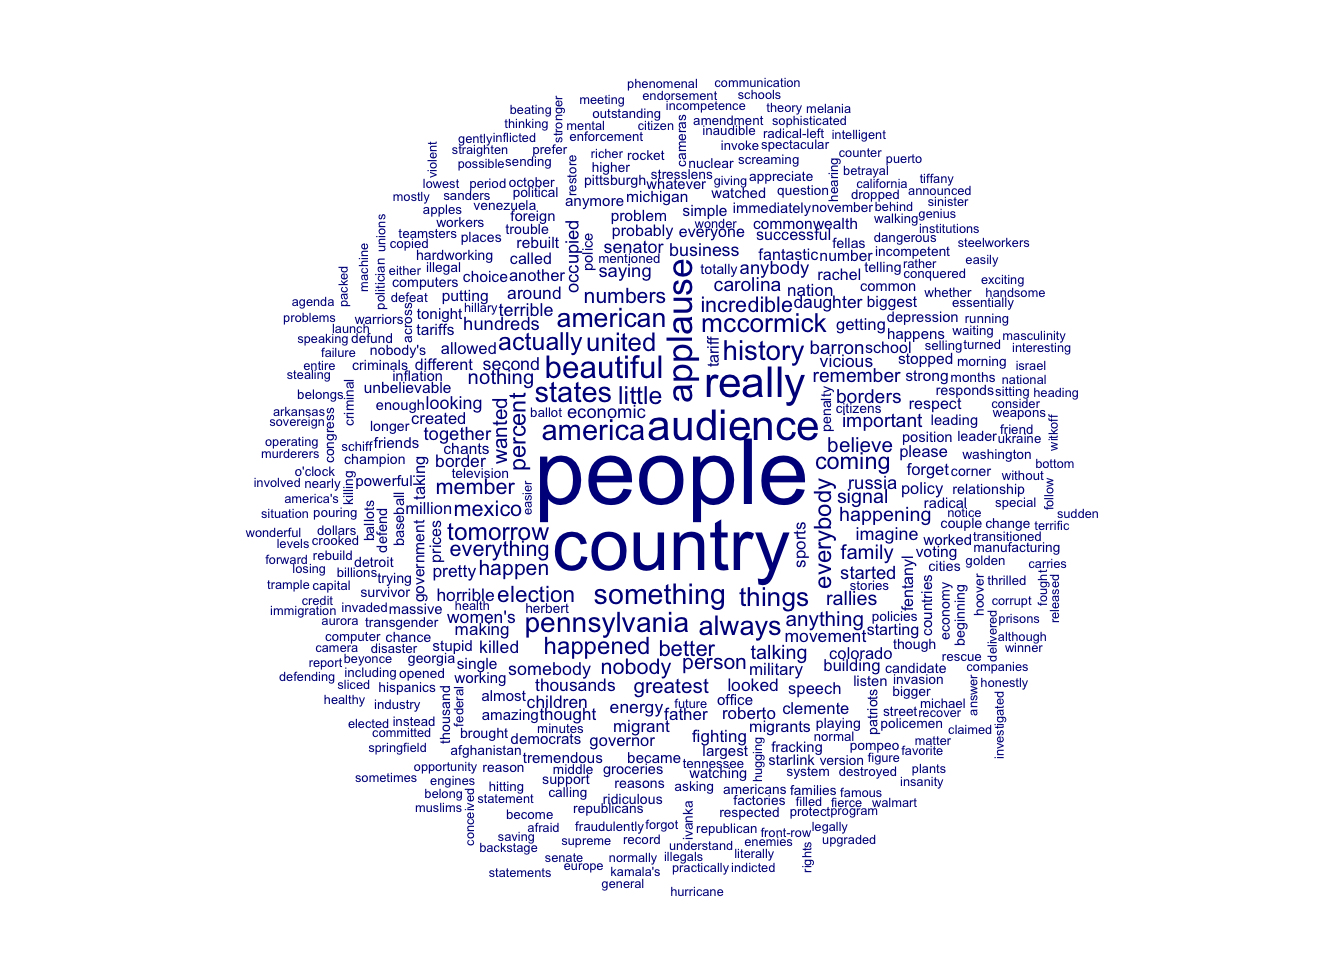
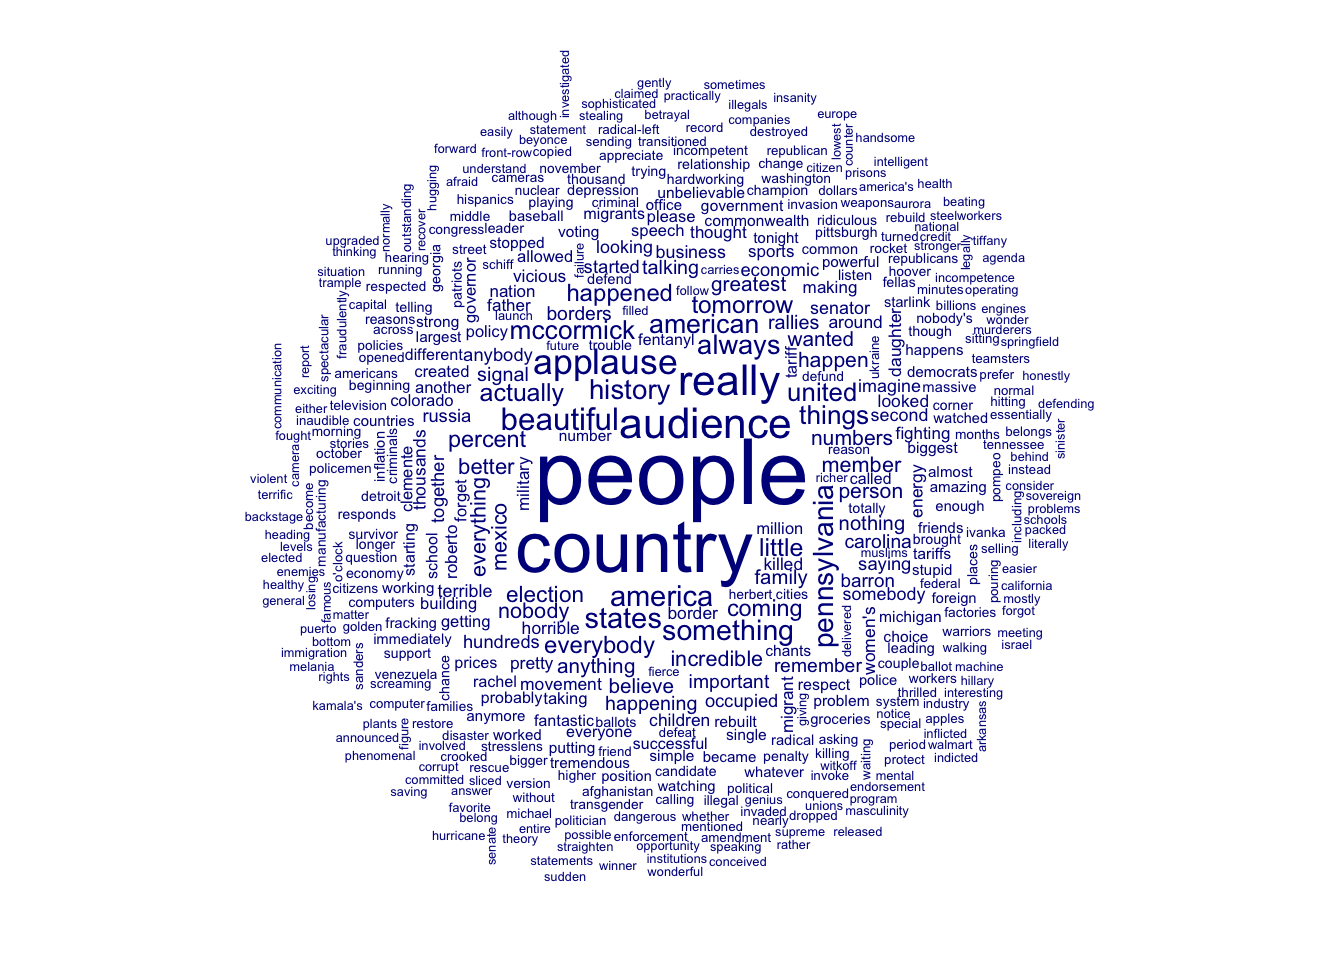
week 11 commit 2

Changed region(s): [[0.1875, 0.0625, 0.8125, 0.9375]]

diff --git a/public/post/2024/11/19/week-11/index.html b/public/post/2024/11/19/week-11/index.html
@@ -37,30 +37,31 @@
 <h1 id="election-blog">Election Blog</h1>
 <h2 id="week-11-a-glimpse-into-pennsylvania">Week 11: A Glimpse into Pennsylvania</h2>
 <h3 id="general-overview">General Overview</h3>
-<p><a href="https://data.census.gov/profile/Pennsylvania?g=040XX00US42">Pennsylvania</a>, home to 13 million people, and with a moderate size of 44,729.9 square miles, has been a swing state in the recent few presidential elections. For presidential candidates trying to secure the 270 electoral college votes necessary to win, Pennsylvania&rsquo;s 19 electoral votes, the highest of any of the <a href="https://www.usnews.com/news/elections/articles/7-swing-states-that-could-decide-the-2024-presidential-election">seven swing states</a>, have therefore become crucial. Its residents have voted Democratic in all presidential elections since 2000, except for 2016, and now again in 2024, though the <a href="https://www.270towin.com/states/Pennsylvania">margin</a> has been consistently small.</p>
-<p>Below is the demographic distribution of registered voters in Pennsylvania based on the voterfile.</p>
+<p><a href="https://data.census.gov/profile/Pennsylvania?g=040XX00US42">Pennsylvania</a>, home to 13 million people and spanning 44,729.9 square miles, has been a swing state in the recent few presidential elections. For presidential candidates trying to secure the 270 electoral college votes necessary to win, Pennsylvania&rsquo;s 19 electoral votes, the highest of any of the <a href="https://www.usnews.com/news/elections/articles/7-swing-states-that-could-decide-the-2024-presidential-election">seven swing states</a>, have therefore become crucial. Since 2000, Pennsylvania voters have leaned Democratic in presidential elections, with the exception of 2016 and now 2024, though the <a href="https://www.270towin.com/states/Pennsylvania">margins</a> remain consistently narrow.</p>
+<p>Below is the demographic distribution of registered voters in Pennsylvania based on the voter file.</p>
 <img src="/post/2024/11/19/week-11/index_files/figure-html/unnamed-chunk-2-1.png" width="672" />
 <h4 id="president">President</h4>
-<p>Trump, representing the Republican Party, <a href="https://apps.npr.org/2024-election-results/pennsylvania.html?section=P">defeated</a> Harris from the Democratic Party with a 50.86% two-party popular vote share in Pennsylvania. It is worth noting that Trump tended to lose densely populated urban counties such as Philadelphia County, Allgheny County which houses Pittsburgh, and Dauphin County which has the state capital Harrisburg.</p>
+<p>In the 2024 presidential race, Trump, representing the Republican Party, <a href="https://apps.npr.org/2024-election-results/pennsylvania.html?section=P">defeated</a> Harris, the Democratic candidate, with 50.86% of the two-party popular vote in Pennsylvania. Trump performed poorly in urban counties like Philadelphia, Allegheny (home to Pittsburgh), and Dauphin (which houses the state capital, Harrisburg), but his strong hold in rural areas helped secure his victory.</p>
 <p>The map below displays the 2024 presidential election results by county in Pennsylvania.</p>
 <img src="/post/2024/11/19/week-11/index_files/figure-html/unnamed-chunk-4-1.png" width="672" />
 <h4 id="senate">Senate</h4>
-<p>The Republican Party represented by incumbent McCormick also won Casey from the Democratic Party in the <a href="https://apps.npr.org/2024-election-results/pennsylvania.html?section=S">senate race</a>, where the Republican&rsquo;s two-party popular vote share stood at 50.10%.</p>
-<p>The urban-rural divide in party vote choice still persists here. However, there seems to be ticket splitting in Erie, Monroe, Bucks County where voters voted for the Democratic instead of the Republican party for the senate race but not the presidential race in these three counties.</p>
+<p>The Republican Party also triumphed in the <a href="https://apps.npr.org/2024-election-results/pennsylvania.html?section=S">senate race</a> race, with incumbent McCormick defeating Democratic challenger Casey. McCormick secured 50.10% of the two-party popular vote.</p>
+<p>While the urban-rural divide remained in voting patterns, ticket-splitting emerged in counties such as Erie, Monroe, and Bucks, where voters favored Democrats in the Senate race while supporting Republicans in the presidential race.</p>
 <h4 id="house-of-representatives">House of Representatives</h4>
-<p>In the <a href="https://apps.npr.org/2024-election-results/pennsylvania.html?section=H">house race</a>, the Republican Party won 10 seats whereas the Democratic Party won 7 seats out of the 17 congressional districts. Most incumbents defended their seat, except for District 7 and 8 where both Democratic incumbents lost to their Republican challengers.</p>
+<p>In the <a href="https://apps.npr.org/2024-election-results/pennsylvania.html?section=H">house races</a>, Republicans won 10 seats, while Democrats won 7 out of the 17 congressional districts. Most incumbents retained their seats, with the exceptions of Districts 7 and 8, where Democratic incumbents lost to Republican challengers.</p>
 <h3 id="forecasted-vs-actual-outcome-in-presidential-election">Forecasted vs Actual Outcome in Presidential Election</h3>
-<p>The plot below shows the bias in the two-party popular vote share predicted by different models. Any prediction to the left of the black dotted lines will result in a wrong prediction of the party winner of the state.</p>
-<p>11 out of the 28 models predicted the winner wrongly, whereas 9 other models, including mine, predicted the winner correctly and 8 models predicted a tie between the two parties.</p>
+<p>The plot below compares the predicted and actual two-party popular vote share. Predictions falling to the left of the black dotted line indicate a wrong prediction of the state winner.</p>
+<p>Out of 28 models, 11 predicted the winner incorrectly. Meanwhile, 9 models, including mine, correctly predicted the outcome, while 8 models forecasted a tie.</p>
 <img src="/post/2024/11/19/week-11/index_files/figure-html/unnamed-chunk-5-1.png" width="672" />
 <h3 id="ground-game-campaign-in-pennsylvania">Ground Game: Campaign in Pennsylvania</h3>
-<p><a href="https://muse-jhu-edu.ezp-prod1.hul.harvard.edu/book/36264">Vavreck (2009)</a> theorized that candidates need to run the right type of campaign to outperform fundamentals. In the case if this election, since the economy is performing relatively poor, Harris as the incumbent party&rsquo;s candidate should run an insurgent campaign focusing on issues which she is committed to and would benefit from public opinion, such as her identity as a woman of color which would allow her to support policies on reproductive rights and racial equality, whereas Trump as the challenger should run a clarifying campaign about the bad state of the economy.</p>
 <p>Therefore, I compare Harris and Trump&rsquo;s November 4th speeches in Pennsylvania during their campaign rallies.</p>
+<p><a href="https://muse-jhu-edu.ezp-prod1.hul.harvard.edu/book/36264">Vavreck (2009)</a> argues that candidates should tailor their campaigns to the prevailing economic conditions. With the economy performing poorly, Harris, as the incumbent party’s candidate, should run an insurgent campaign centered on issues that resonate with public opinion, such as reproductive rights and racial equality—areas where her identity as a woman of color offers a unique platform. On the other hand, Trump, as the challenger, is expected to run a clarifying campaign, focusing on the economy&rsquo;s poor state and contrasting it with his proposed solutions.</p>
+<p>I analyze the November 4th campaign speeches in Pennsylvania by both candidates.</p>
 <p>For Harris, frequently mentioned words such as &ldquo;audience,&rdquo; &ldquo;America,&rdquo; &ldquo;people,&rdquo; &ldquo;country,&rdquo; &ldquo;together,&rdquo; &ldquo;pledge,&rdquo; and &ldquo;leaders&rdquo; suggest themes of unity and leadership. Words like &ldquo;reproductive,&rdquo; &ldquo;fights,&rdquo; and &ldquo;freedom&rdquo; emphasizes on issues such as women&rsquo;s rights or personal liberties. The lack of strong emphasis on economic terms aligns with the idea of focusing on social and identity-driven issues rather than clarifying economic concerns.</p>
 <img src="/post/2024/11/19/week-11/index_files/figure-html/unnamed-chunk-7-1.png" width="672" />
-<p>Similarly, Trump&rsquo;s speech also focused on the &ldquo;people,&rdquo; &ldquo;audience,&rdquo; and &ldquo;country.&rdquo; However, frequent mention of words like &ldquo;Mexico,&rdquo; &ldquo;border,&rdquo; &ldquo;migrants,&rdquo; &ldquo;economic,&rdquo; &ldquo;policy,&rdquo; &ldquo;killed,&rdquo; and &ldquo;terrible&rdquo; reflect an emphasis on attacking the incumbent party on its poor administration which caused the bad economic condition and polarizing and unpopular immigration policies.</p>
+<p>Similarly, Trump&rsquo;s speech also focused on the &ldquo;people,&rdquo; &ldquo;audience,&rdquo; and &ldquo;country.&rdquo; Frequent mention of words like &ldquo;Mexico,&rdquo; &ldquo;border,&rdquo; &ldquo;migrants,&rdquo; &ldquo;economic,&rdquo; &ldquo;policy,&rdquo; &ldquo;killed,&rdquo; and &ldquo;terrible&rdquo; reflect a critique of the incumbent administration for economic struggles and immigration policies, consistent with a clarifying campaign.</p>
 <img src="/post/2024/11/19/week-11/index_files/figure-html/unnamed-chunk-8-1.png" width="672" />
-<p>Overall, both parties followed Vavreck&rsquo;s theory on the type of campaign that a party should run under relevant economic conditions. However, this tight race might be caused by other factors such as the limited time which Harris had to campaign as a presidential candidate, which I would like to investigate into in the future by comparing the volume and intensity of campaigns by both candidates given the time constraint.</p>
+<p>Overall, both candidates appear to have adhered to Vavreck’s theory on running campaigns suited to the economic context. However, the close race suggests additional factors may have influenced the outcome. One potential area for further exploration is the limited time Harris had to campaign as a presidential candidate. Comparing the volume and intensity of campaigns by both candidates under these time constraints may provide further insights.</p>
 
 </main>
 
